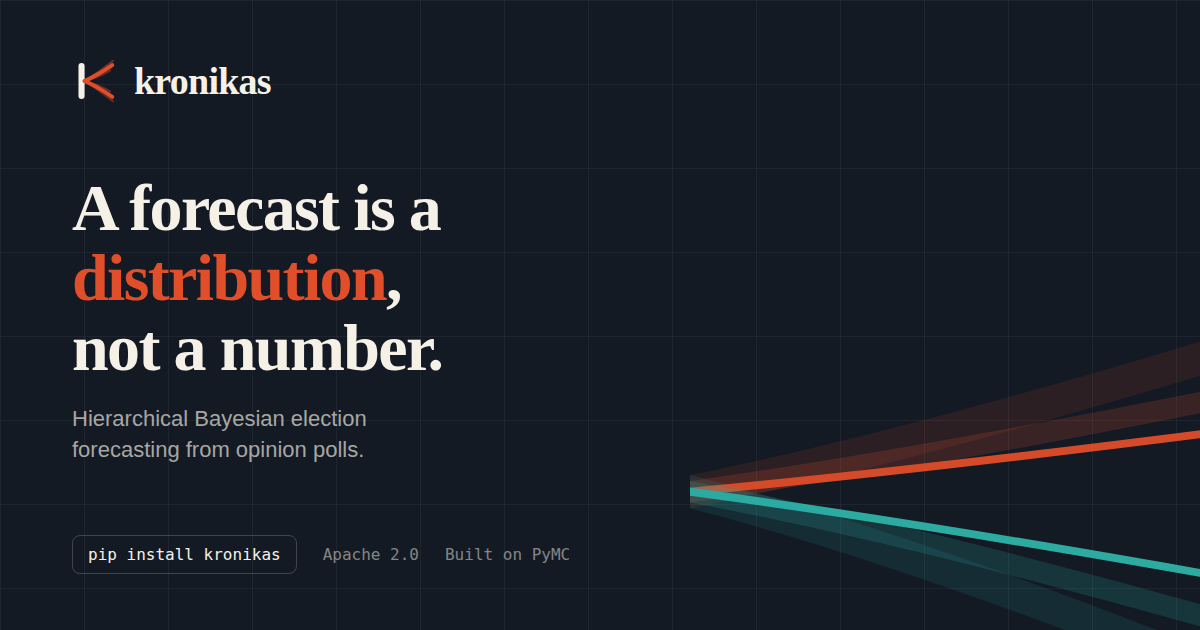
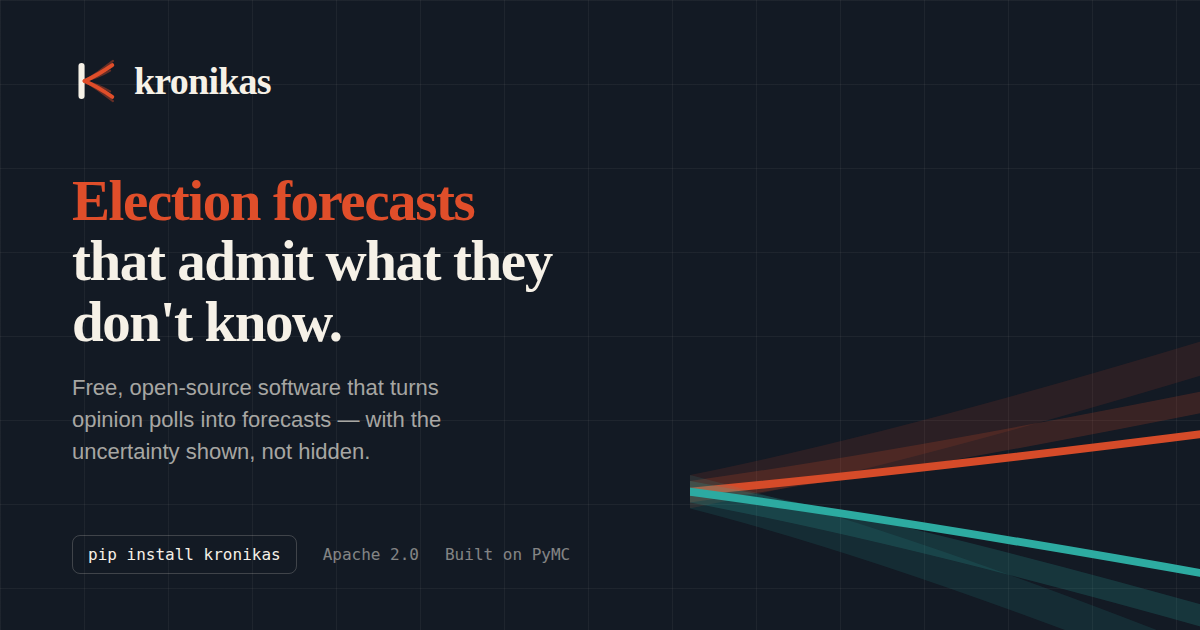
Lead with what the project actually is
The largest text on the page was "A forecast is a distribution, not a
number" — a thesis about methodology, not an identifier. "Forecast" alone
could be weather or sales, and the only place the word "election" appeared
above the fold was the badge, in the smallest, quietest type on the screen.
A reader glancing for three seconds could not tell what the project was for.

The headline now carries the category and keeps the angle:
"Election forecasts that admit what they don't know."

Three signals rather than one, each answering a different question:

- the nav sets "election forecasting" beside the wordmark, so the subject
  stays visible while scrolling (dropped under 720px, where the nav is
  already tight);
- the badge now says what form it takes — a free, open-source Python
  package — rather than repeating the domain;
- the headline says what it does.

The social card, the page description and the og/twitter titles led with the
same manifesto line, so they are updated to match. Anyone meeting the
project through a shared link now sees the category first too.

Claude-Session: https://claude.ai/code/session_01Gh1ce9Ko49cmRKh8zuvVT8

Changed region(s): [[0.0617, 0.2714, 0.4625, 0.754]]

diff --git a/index.html b/index.html
@@ -4,7 +4,7 @@
 <meta charset="utf-8">
 <meta name="viewport" content="width=device-width, initial-scale=1">
 <title>kronikas — election forecasting that admits what it doesn't know</title>
-<meta name="description" content="Hierarchical Bayesian election forecasting from opinion polls. Full posterior distributions, learnt pollster house effects, and an honest account of the polling error no model can see.">
+<meta name="description" content="Free, open-source software that turns opinion polls into election forecasts: each party's likely vote share, the range around it, and the probability it finishes first — with the uncertainty shown, not hidden.">
 <link rel="icon" href="assets/favicon.svg" type="image/svg+xml">
 <link rel="apple-touch-icon" href="assets/favicon.svg">
 <meta name="theme-color" content="#131a24">
@@ -12,13 +12,13 @@
 
 <meta property="og:type" content="website">
 <meta property="og:url" content="https://vtisza.github.io/kronikas/">
-<meta property="og:title" content="kronikas — a forecast is a distribution, not a number">
-<meta property="og:description" content="Hierarchical Bayesian election forecasting from opinion polls. Full posteriors, learnt house effects, and an honest account of the polling error no model can see.">
+<meta property="og:title" content="kronikas — election forecasts that admit what they don't know">
+<meta property="og:description" content="Free, open-source software that turns opinion polls into election forecasts — with the uncertainty shown, not hidden.">
 <meta property="og:image" content="https://vtisza.github.io/kronikas/assets/og-image.png">
 <meta property="og:image:width" content="1200">
 <meta property="og:image:height" content="630">
 <meta name="twitter:card" content="summary_large_image">
-<meta name="twitter:title" content="kronikas — a forecast is a distribution, not a number">
+<meta name="twitter:title" content="kronikas — election forecasts that admit what they don't know">
 <meta name="twitter:description" content="Hierarchical Bayesian election forecasting from opinion polls, built on PyMC.">
 <meta name="twitter:image" content="https://vtisza.github.io/kronikas/assets/og-image.png">
 
@@ -71,6 +71,7 @@
     <a class="brand" href="#top">
       <svg><use href="#mark"/></svg>
       <span class="brand__name">kronikas</span>
+      <span class="brand__what">election forecasting</span>
     </a>
     <nav class="nav__links">
       <a href="#what">What is it</a>
@@ -87,8 +88,8 @@
 <!-- =============================================================== hero -- -->
 <section class="band band--ink hero" id="top">
   <div class="wrap section" style="padding-bottom:clamp(48px,6vw,72px)">
-    <span class="hero__eyebrow"><i></i> Free, open-source election forecasting</span>
-    <h1>A forecast is a <em>distribution</em>, not a number.</h1>
+    <span class="hero__eyebrow"><i></i> Free, open-source Python package</span>
+    <h1><em>Election forecasts</em> that admit what they don't know.</h1>
     <p class="hero__sub">
       kronikas reads opinion polls and works out what they actually support: where each
       party stands, how much of the gap between them is one polling firm's habits rather

diff --git a/assets/styles.css b/assets/styles.css
@@ -456,3 +456,12 @@ pre code { font: inherit; }
 /* The primer cards carry no icon, so they need their own top spacing. */
 #what .card h3 { margin-bottom: 12px; }
 #what .card em { font-style: italic; }
+
+/* Category signal beside the wordmark, so the subject stays visible while
+   scrolling. Dropped on narrow screens where the nav is already tight. */
+.brand__what {
+  font-family: var(--mono); font-size: 11.5px; letter-spacing: .1em;
+  text-transform: uppercase; color: var(--muted);
+  border-left: 1px solid var(--rule); padding-left: 11px; margin-left: 2px;
+}
+@media (max-width: 720px) { .brand__what { display: none; } }
